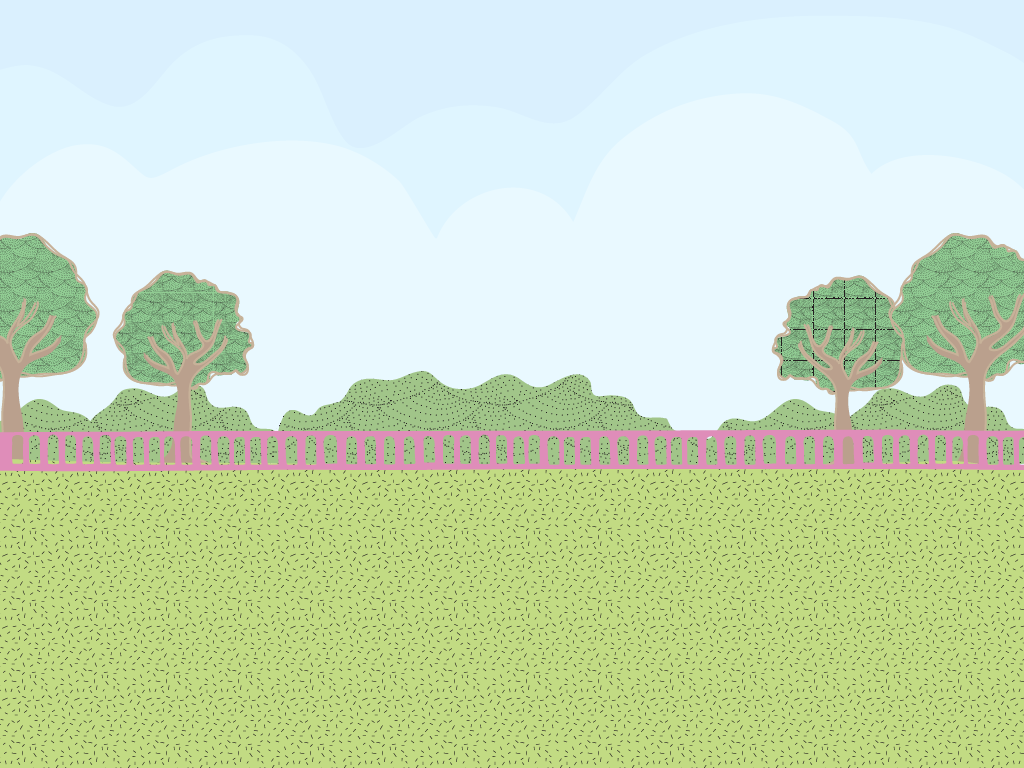
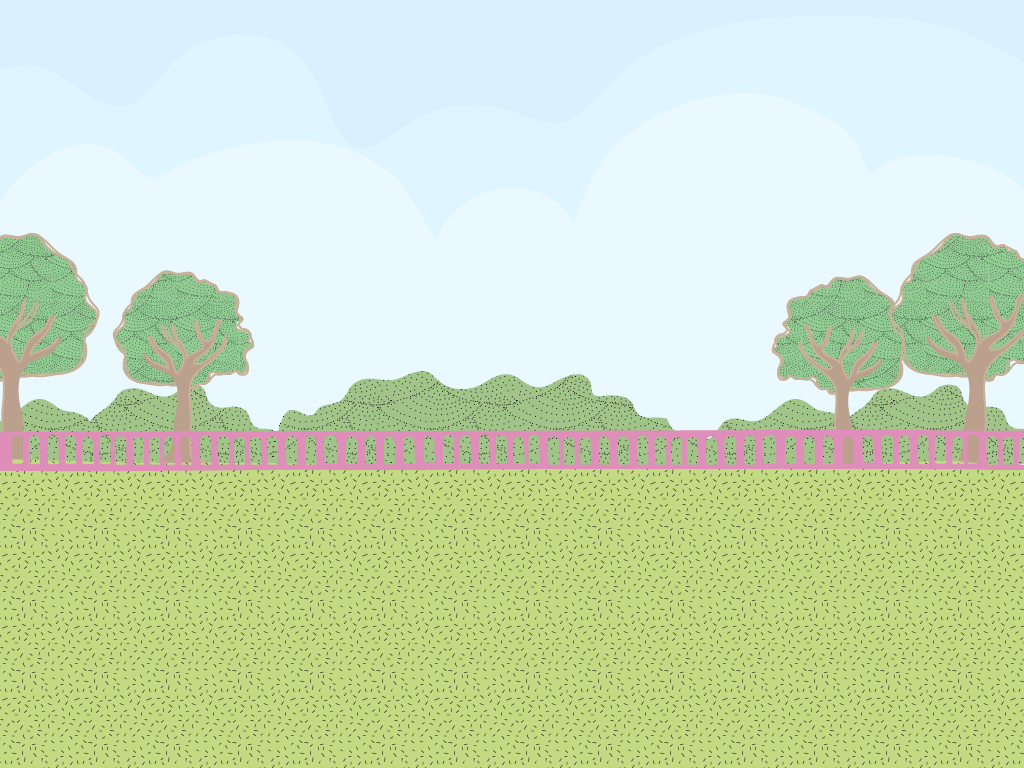
helmet off animation pixel size

Changed region(s): [[0.75, 0.3125, 1.0, 0.5], [0.125, 0.3438, 0.25, 0.5], [0.0, 0.3125, 0.0938, 0.5]]

diff --git a/js/game.js b/js/game.js
@@ -565,7 +565,7 @@ Preload.prototype = {
       this.load.spritesheet('fwd_button', 'assets/CutScene_Thinking/Thinking_ButtonSprite.png', 150, 150, 1);
       this.load.image('walking_out_house', 'assets/Animation_Stills/S5_WalkingOutHouse.png');
       this.load.image('helmet_off_bg', 'assets/CutScene_HelmetOff/HelmetOff_BG.png');
-      this.load.spritesheet('helmet_off_anim', 'assets/CutScene_HelmetOff/HelmetOff_SpriteMap1.png', 600, 720, 16);
+      this.load.spritesheet('helmet_off_anim', 'assets/CutScene_HelmetOff/HelmetOff_2px.png', 600, 720, 16);
 
       // Mini game placeholders
       this.load.image('veggie_patch_ph', 'assets/FrontYard/MiniGames/VeggiePatch.png');
